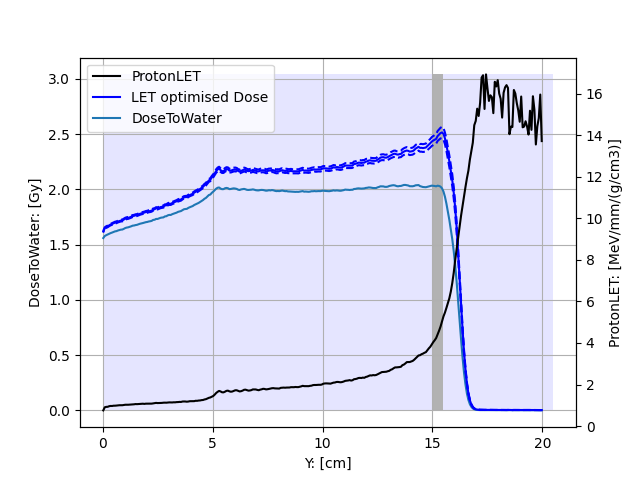
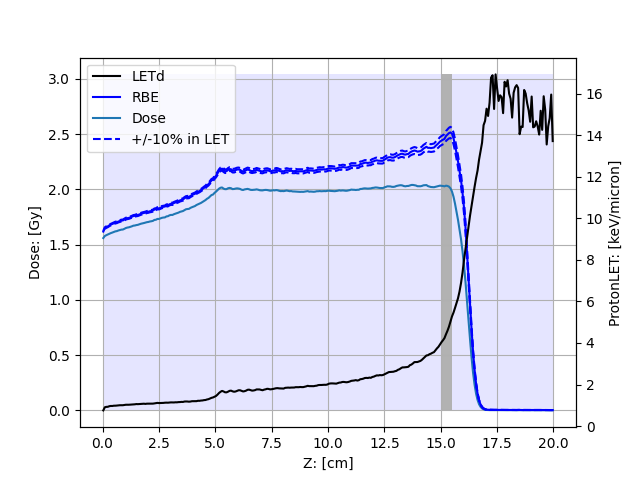
updated results

diff --git a/notebooks/topas_plan1b.py b/notebooks/topas_plan1b.py
@@ -15,30 +15,31 @@ yDose = np.squeeze(Dose.data['Sum'])
 
 scale = 2/np.mean(yDose[90:225])
 
-Dplot = ax1.plot(np.flip(x), yDose*scale,label=Dose.quantity)
+Dplot = ax1.plot(np.flip(x), yDose*scale,label="Dose")
 
-DplotLET = ax1.plot(np.flip(x), yDose*scale + yLET*0.05*yDose*scale, c='b' ,label="LET optimised Dose")
+DplotLET = ax1.plot(np.flip(x), yDose*scale + yLET*0.05*yDose*scale, c='b' ,label="RBE")
 Dose_uBound = yDose*scale + yLET*0.05*yDose*1.1*scale
 Dose_lBound = yDose*scale + yLET*0.05*yDose*0.9*scale
 
-Dplot_u = ax1.plot(np.flip(x), Dose_uBound, '--', c='b')
+Dplot_u = ax1.plot(np.flip(x), Dose_uBound, '--', c='b', label="+/-10% in LET")
 Dplot_l = ax1.plot(np.flip(x), Dose_lBound, '--', c='b')
 
-LETplot = ax2.plot(np.flip(x), yLET, c='k', label=LET.quantity)
-ax1.set_xlabel(Dose.dimensions[1].name +": ["+ Dose.dimensions[1].unit+ "]")
+LETplot = ax2.plot(np.flip(x), yLET, c='k', label="LETd")
+ax1.set_xlabel("Z" +": ["+ Dose.dimensions[1].unit+ "]")
 ax1.grid()
-ax1.set_ylabel(Dose.quantity +": ["+ Dose.unit + "]")
-ax2.set_ylabel(LET.quantity +": ["+ LET.unit + "]")
+ax1.set_ylabel("Dose" +": ["+ Dose.unit + "]")
+ax2.set_ylabel(LET.quantity +": [keV/micron]")
+
+# added these three lines
+lns = LETplot+DplotLET+Dplot+Dplot_u
+labs = [l.get_label() for l in lns]
+ax1.legend(lns, labs, loc=2)
 
 
 ax1.fill_between(x=[0, 15], y1=0, y2=max(np.squeeze(Dose.data['Sum']))*scale+1, facecolor='blue', alpha=0.1)
 ax1.fill_between(x=[15.0, 15.5], y1=0, y2=max(np.squeeze(Dose.data['Sum']))*scale+1, facecolor='black', alpha=0.3)
-ax1.fill_between(x=[15.5, 20.5], y1=0, y2=max(np.squeeze(Dose.data['Sum']))*scale+1, facecolor='blue', alpha=0.1)
+ax1.fill_between(x=[15.5, 20.], y1=0, y2=max(np.squeeze(Dose.data['Sum']))*scale+1, facecolor='blue', alpha=0.1)
 
-# added these three lines
-lns = LETplot+DplotLET+Dplot
-labs = [l.get_label() for l in lns]
-ax1.legend(lns, labs, loc=0)
 # plt.vlines(x =[11.8, 12.8], ymin = 0, ymax =max(np.squeeze(dose.data['Sum'])), color = 'red', label = 'Cellflask 3')
 # plt.show()
 plt.savefig("data/topas/results/plan_1b/" + Dose.quantity +"_" + LET.quantity)

diff --git a/notebooks/topas_plan2.py b/notebooks/topas_plan2.py
@@ -15,30 +15,31 @@ yDose = np.squeeze(Dose.data['Sum'])
 
 scale = 2/np.mean(yDose[90:225])
 
-Dplot = ax1.plot(np.flip(x), yDose*scale,label=Dose.quantity)
+Dplot = ax1.plot(np.flip(x), yDose*scale,label="Dose")
 
-DplotLET = ax1.plot(np.flip(x), yDose*scale + yLET*0.05*yDose*scale, c='b' ,label="LET optimised Dose")
+DplotLET = ax1.plot(np.flip(x), yDose*scale + yLET*0.05*yDose*scale, c='b' ,label="RBE")
 Dose_uBound = yDose*scale + yLET*0.05*yDose*1.1*scale
 Dose_lBound = yDose*scale + yLET*0.05*yDose*0.9*scale
 
-Dplot_u = ax1.plot(np.flip(x), Dose_uBound, '--', c='b')
+Dplot_u = ax1.plot(np.flip(x), Dose_uBound, '--', c='b', label="+/-10% in LET")
 Dplot_l = ax1.plot(np.flip(x), Dose_lBound, '--', c='b')
 
-LETplot = ax2.plot(np.flip(x), yLET, c='k', label=LET.quantity)
-ax1.set_xlabel(Dose.dimensions[1].name +": ["+ Dose.dimensions[1].unit+ "]")
+LETplot = ax2.plot(np.flip(x), yLET, c='k', label="LETd")
+ax1.set_xlabel("Z" +": ["+ Dose.dimensions[1].unit+ "]")
 ax1.grid()
-ax1.set_ylabel(Dose.quantity +": ["+ Dose.unit + "]")
-ax2.set_ylabel(LET.quantity +": ["+ LET.unit + "]")
+ax1.set_ylabel("Dose" +": ["+ Dose.unit + "]")
+ax2.set_ylabel(LET.quantity +": [keV/micron]")
 
+# added these three lines
+lns = LETplot+DplotLET+Dplot+Dplot_u
+labs = [l.get_label() for l in lns]
+ax1.legend(lns, labs, loc=2)
 
 ax1.fill_between(x=[0, 2], y1=0, y2=max(np.squeeze(Dose.data['Sum']))*scale+1, facecolor='blue', alpha=0.1)
 ax1.fill_between(x=[2.0, 2.5], y1=0, y2=max(np.squeeze(Dose.data['Sum']))*scale+1, facecolor='black', alpha=0.3)
-ax1.fill_between(x=[2.5, 20.5], y1=0, y2=max(np.squeeze(Dose.data['Sum']))*scale+1, facecolor='blue', alpha=0.1)
+ax1.fill_between(x=[2.5, 20.], y1=0, y2=max(np.squeeze(Dose.data['Sum']))*scale+1, facecolor='blue', alpha=0.1)
 
-# added these three lines
-lns = LETplot+DplotLET+Dplot
-labs = [l.get_label() for l in lns]
-ax1.legend(lns, labs, loc=0)
+
 # plt.vlines(x =[11.8, 12.8], ymin = 0, ymax =max(np.squeeze(dose.data['Sum'])), color = 'red', label = 'Cellflask 3')
 # plt.show()
 plt.savefig("data/topas/results/plan_2/" + Dose.quantity +"_" + LET.quantity)

diff --git a/notebooks/topas_plan1a.py b/notebooks/topas_plan1a.py
@@ -15,30 +15,29 @@ yDose = np.squeeze(Dose.data['Sum'])
 
 scale = 2/np.mean(yDose[90:225])
 
-Dplot = ax1.plot(np.flip(x), yDose*scale,label=Dose.quantity)
+Dplot = ax1.plot(np.flip(x), yDose*scale,label="Dose")
 
-DplotLET = ax1.plot(np.flip(x), yDose*scale + yLET*0.05*yDose*scale, c='b' ,label="LET optimised Dose")
+DplotLET = ax1.plot(np.flip(x), yDose*scale + yLET*0.05*yDose*scale, c='b' ,label="RBE")
 Dose_uBound = yDose*scale + yLET*0.05*yDose*1.1*scale
 Dose_lBound = yDose*scale + yLET*0.05*yDose*0.9*scale
 
-Dplot_u = ax1.plot(np.flip(x), Dose_uBound, '--', c='b')
+Dplot_u = ax1.plot(np.flip(x), Dose_uBound, '--', c='b', label="+/-10% in LET")
 Dplot_l = ax1.plot(np.flip(x), Dose_lBound, '--', c='b')
 
-LETplot = ax2.plot(np.flip(x), yLET, c='k', label=LET.quantity)
-ax1.set_xlabel(Dose.dimensions[1].name +": ["+ Dose.dimensions[1].unit+ "]")
+LETplot = ax2.plot(np.flip(x), yLET, c='k', label="LETd")
+ax1.set_xlabel("Z" +": ["+ Dose.dimensions[1].unit+ "]")
 ax1.grid()
-ax1.set_ylabel(Dose.quantity +": ["+ Dose.unit + "]")
-ax2.set_ylabel(LET.quantity +": ["+ LET.unit + "]")
+ax1.set_ylabel("Dose" +": ["+ Dose.unit + "]")
+ax2.set_ylabel(LET.quantity +": [keV/micron]")
 
+# added these three lines
+lns = LETplot+DplotLET+Dplot+Dplot_u
+labs = [l.get_label() for l in lns]
+ax1.legend(lns, labs, loc=2)
 
 ax1.fill_between(x=[0, 10], y1=0, y2=max(np.squeeze(Dose.data['Sum']))*scale+1, facecolor='blue', alpha=0.1)
 ax1.fill_between(x=[10.0, 10.5], y1=0, y2=max(np.squeeze(Dose.data['Sum']))*scale+1, facecolor='black', alpha=0.3)
 ax1.fill_between(x=[10.5, 20.5], y1=0, y2=max(np.squeeze(Dose.data['Sum']))*scale+1, facecolor='blue', alpha=0.1)
-
-# added these three lines
-lns = LETplot+DplotLET+Dplot
-labs = [l.get_label() for l in lns]
-ax1.legend(lns, labs, loc=0)
 # plt.vlines(x =[11.8, 12.8], ymin = 0, ymax =max(np.squeeze(dose.data['Sum'])), color = 'red', label = 'Cellflask 3')
 # plt.show()
 plt.savefig("data/topas/results/plan_1a/" + Dose.quantity +"_" + LET.quantity)

diff --git a/notebooks/topas_plan1c.py b/notebooks/topas_plan1c.py
@@ -15,30 +15,30 @@ yDose = np.squeeze(Dose.data['Sum'])
 
 scale = 2/np.mean(yDose[90:225])
 
-Dplot = ax1.plot(np.flip(x), yDose*scale,label=Dose.quantity)
+Dplot = ax1.plot(np.flip(x), yDose*scale,label="Dose")
 
-DplotLET = ax1.plot(np.flip(x), yDose*scale + yLET*0.05*yDose*scale, c='b' ,label="LET optimised Dose")
+DplotLET = ax1.plot(np.flip(x), yDose*scale + yLET*0.05*yDose*scale, c='b' ,label="RBE")
 Dose_uBound = yDose*scale + yLET*0.05*yDose*1.1*scale
 Dose_lBound = yDose*scale + yLET*0.05*yDose*0.9*scale
 
-Dplot_u = ax1.plot(np.flip(x), Dose_uBound, '--', c='b')
+Dplot_u = ax1.plot(np.flip(x), Dose_uBound, '--', c='b', label="+/-10% in LET")
 Dplot_l = ax1.plot(np.flip(x), Dose_lBound, '--', c='b')
 
-LETplot = ax2.plot(np.flip(x), yLET, c='k', label=LET.quantity)
+LETplot = ax2.plot(np.flip(x), yLET, c='k', label="LETd")
 ax1.set_xlabel(Dose.dimensions[1].name +": ["+ Dose.dimensions[1].unit+ "]")
 ax1.grid()
 ax1.set_ylabel(Dose.quantity +": ["+ Dose.unit + "]")
 ax2.set_ylabel(LET.quantity +": ["+ LET.unit + "]")
-
+# added these three lines
+lns = LETplot+DplotLET+Dplot+Dplot_u
+labs = [l.get_label() for l in lns]
+ax1.legend(lns, labs, loc=2)
 
 ax1.fill_between(x=[0, 15.8], y1=0, y2=max(np.squeeze(Dose.data['Sum']))*scale+1, facecolor='blue', alpha=0.1)
 ax1.fill_between(x=[15.8, 16.3], y1=0, y2=max(np.squeeze(Dose.data['Sum']))*scale+1, facecolor='black', alpha=0.3)
-ax1.fill_between(x=[16.3, 20], y1=0, y2=max(np.squeeze(Dose.data['Sum']))*scale+1, facecolor='blue', alpha=0.1)
+ax1.fill_between(x=[16.3, 20.], y1=0, y2=max(np.squeeze(Dose.data['Sum']))*scale+1, facecolor='blue', alpha=0.1)
 
-# added these three lines
-lns = LETplot+DplotLET+Dplot
-labs = [l.get_label() for l in lns]
-ax1.legend(lns, labs, loc=0)
+
 # plt.vlines(x =[11.8, 12.8], ymin = 0, ymax =max(np.squeeze(dose.data['Sum'])), color = 'red', label = 'Cellflask 3')
 # plt.show()
 plt.savefig("data/topas/results/plan_1c/" + Dose.quantity +"_" + LET.quantity)
